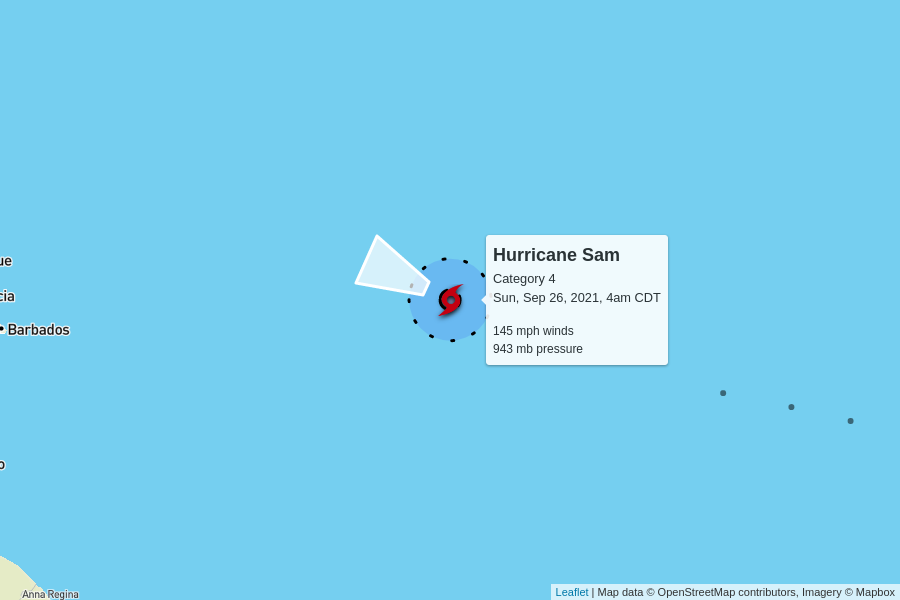
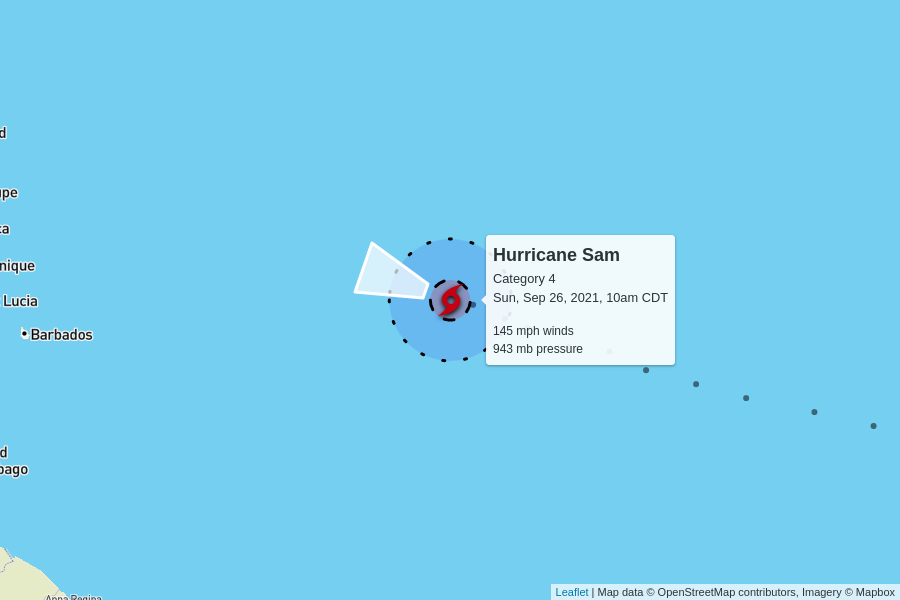
automatic update

diff --git a/docs/index.html b/docs/index.html
@@ -100,7 +100,7 @@
         <td colspan="6" class="storm category-4" >
           <h2>
             Hurricane Sam - Category 4
-            <p class="updated">last updated <span data-time>2021-09-26T09:00:00.000Z</span></p>
+            <p class="updated">last updated <span data-time>2021-09-26T15:00:00.000Z</span></p>
           </h2>
         </td>
       </tr>
@@ -120,7 +120,7 @@
         <td>
           8 mph to the west-northwest
           <br/>
-          <span style="display: inline-block; font-size: 1.5em; transform: rotate(295deg);">↑</span>
+          <span style="display: inline-block; font-size: 1.5em; transform: rotate(290deg);">↑</span>
         </td>
         <td><a href="https://raw.githubusercontent.com/mgwalker/atlantic-hurricanes/main/data/csv/AL182021.csv">AL182021.csv</a></td>
         <td><a href="https://www.nhc.noaa.gov/archive/2021/SAM.shtml?">NHC advisories</a></td>
